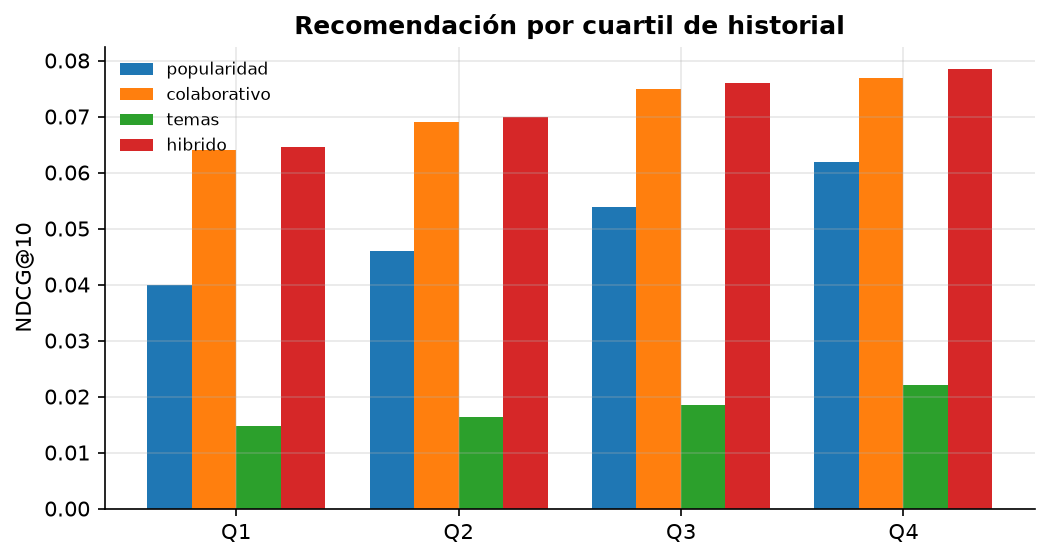
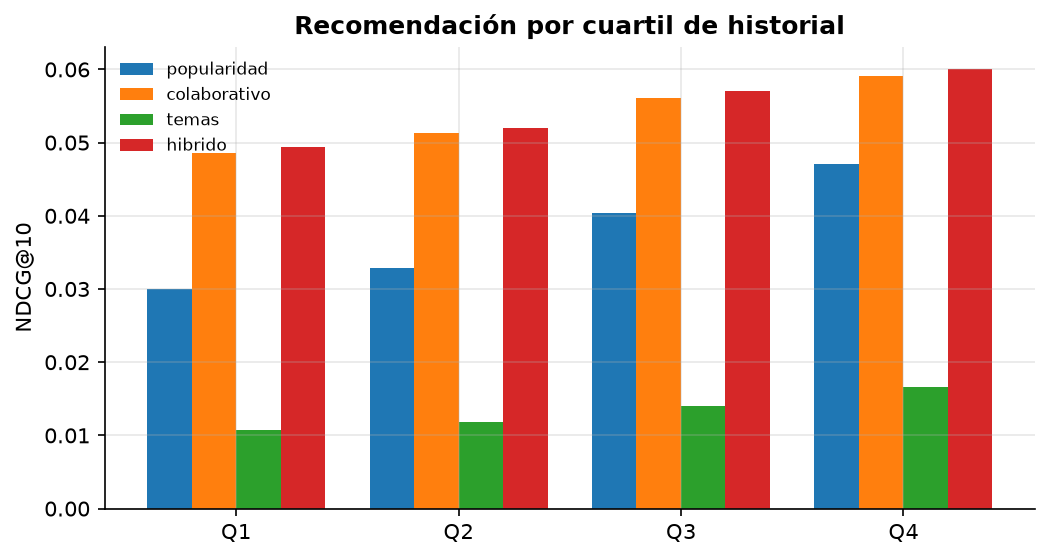
test(integrador-s1): ISBN de largo real en el test de la muestra de validación

diff --git a/01-semestre-1/proyecto-integrador-s1/tests/test_run_smoke.py b/01-semestre-1/proyecto-integrador-s1/tests/test_run_smoke.py
@@ -24,6 +24,7 @@ def test_validate_labels_sample_depends_only_on_seed(medium_catalog, taxonomy_fi
     seen = []
     monkeypatch.setattr(run_module, "fetch_subjects", lambda isbns, cache: seen.append(isbns) or {})
     books = load_books(medium_catalog)
+    books["isbn"] = "978" + books.book_id.astype(str).str.zfill(7)  # el fixture trae ISBN cortos
     labels = label_books(load_shelves(medium_catalog), load_taxonomy(taxonomy_file))
     run_module.validate_labels(books, labels, medium_catalog, seed=42, n=10)
     run_module.validate_labels(books, labels, medium_catalog, seed=42, n=10)
